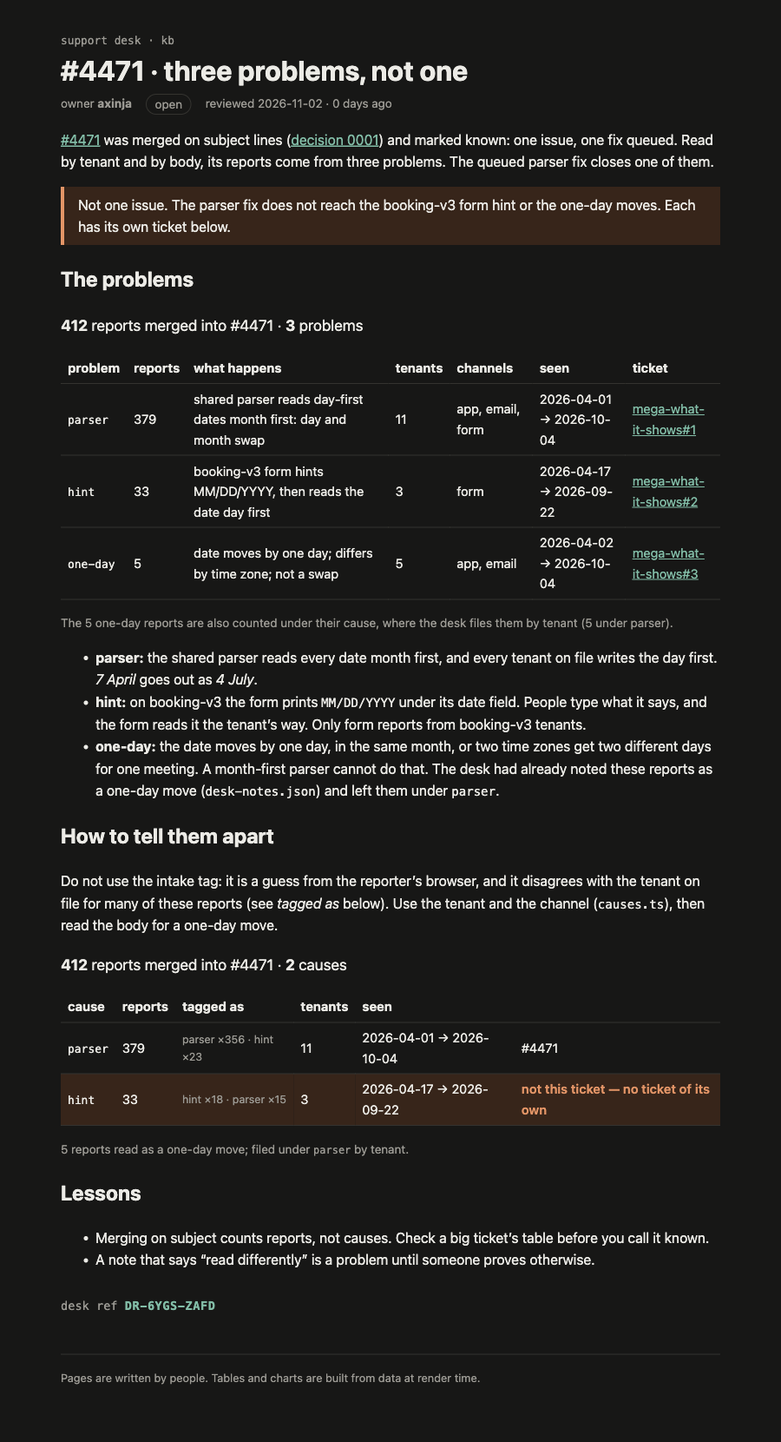
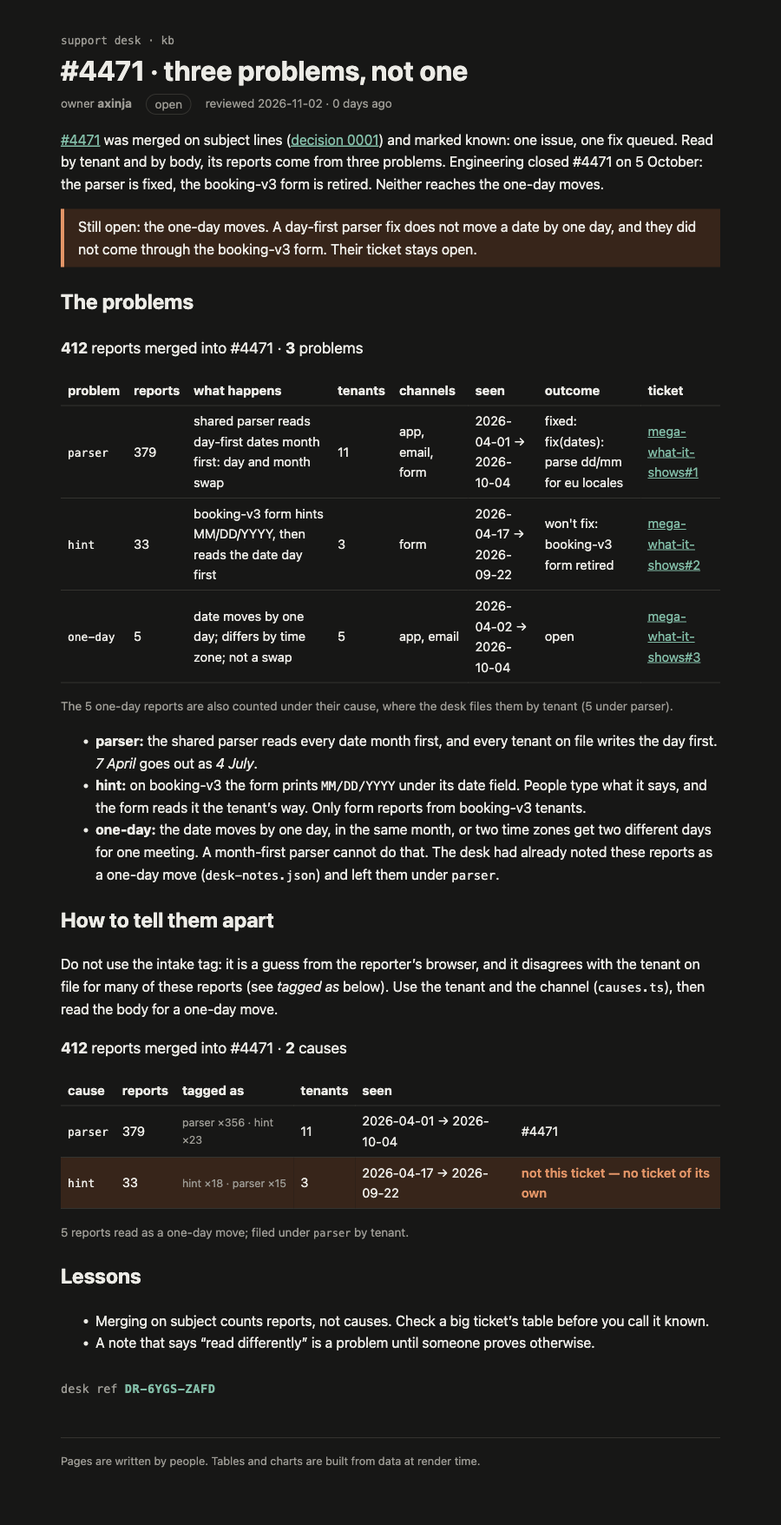
Record #4471 outcomes: parser fixed, hint won't fix, one-day open

diff --git a/page/kb/incidents/4471/problems.html b/page/kb/incidents/4471/problems.html
@@ -9,11 +9,11 @@
 		<link href="../../../_app/immutable/chunks/CptVIHXj.js" rel="modulepreload">
 		<link href="../../../_app/immutable/chunks/CHfFqfNT.js" rel="modulepreload">
 		<link href="../../../_app/immutable/chunks/DQG8lHS1.js" rel="modulepreload">
-		<link href="../../../_app/immutable/entry/app.CKmIegJP.js" rel="modulepreload">
+		<link href="../../../_app/immutable/entry/app.RtNHlXti.js" rel="modulepreload">
 		<link href="../../../_app/immutable/nodes/0.Izv2btRW.js" rel="modulepreload">
 		<link href="../../../_app/immutable/chunks/DK3Fl9T5.js" rel="modulepreload">
-		<link href="../../../_app/immutable/nodes/5.FRS2nURJ.js" rel="modulepreload">
-		<link href="../../../_app/immutable/chunks/BEaBLujZ.js" rel="modulepreload">
+		<link href="../../../_app/immutable/nodes/5.deZKQx3Y.js" rel="modulepreload">
+		<link href="../../../_app/immutable/chunks/B2IXKG7t.js" rel="modulepreload">
 		<link href="../../../_app/immutable/chunks/DkoUumqI.js" rel="modulepreload">
 		<link href="../../../_app/immutable/chunks/gCVyuZ4b.js" rel="modulepreload">
 		<link href="../../../_app/immutable/chunks/DcZ9TEUN.js" rel="modulepreload">
@@ -34,8 +34,9 @@ aside.svelte-17bri61{border-left:4px solid var(--accent);background:var(--note-b
   <body>
     <div style="display: contents"><!--[--><!--[--><!--[0--><!--[--><!--[--><!--[-1--><!--[--><div class="kb svelte-e2jw2j"><header><a class="crumb svelte-e2jw2j" href="/kb">support desk · kb</a> <h1 class="svelte-e2jw2j">#4471 · three problems, not one</h1> <p class="meta svelte-e2jw2j"><span>owner <b>axinja</b></span> <span class="status open svelte-e2jw2j">open</span> <span class="svelte-e2jw2j">reviewed 2026-11-02 · 0 days ago</span></p></header> <!--[-1--><!--]--> <main><p><a href="/kb/incidents/4471">#4471</a> was merged on subject lines (<a href="/kb/decisions/0001-dedupe-by-subject">decision 0001</a>)
 and marked known: one issue, one fix queued. Read by tenant and by body, its reports come from
-three problems. The queued parser fix closes one of them.</p> <aside class="warn svelte-17bri61"><!---->Not one issue. The parser fix does not reach the booking-v3 form hint or the one-day moves.
-Each has its own ticket below.<!----></aside><!----> <h2>The problems</h2> <p class="sum svelte-1op6c6"><strong>412</strong> reports merged into #4471 · <strong>3</strong> problems</p> <table><thead><tr><th>problem</th><th>reports</th><th>what happens</th><th>tenants</th><th>channels</th><th>seen</th><th>ticket</th></tr></thead><tbody><!--[--><tr><td><code>parser</code></td><td>379</td><td>shared parser reads day-first dates month first: day and month swap</td><td>11</td><td>app, email, form</td><td>2026-04-01 → 2026-10-04</td><td><!--[0--><a href="https://github.com/axinja/mega-what-it-shows/issues/1">mega-what-it-shows#1</a><!--]--></td></tr><tr><td><code>hint</code></td><td>33</td><td>booking-v3 form hints MM/DD/YYYY, then reads the date day first</td><td>3</td><td>form</td><td>2026-04-17 → 2026-09-22</td><td><!--[0--><a href="https://github.com/axinja/mega-what-it-shows/issues/2">mega-what-it-shows#2</a><!--]--></td></tr><tr><td><code>one-day</code></td><td>5</td><td>date moves by one day; differs by time zone; not a swap</td><td>5</td><td>app, email</td><td>2026-04-02 → 2026-10-04</td><td><!--[0--><a href="https://github.com/axinja/mega-what-it-shows/issues/3">mega-what-it-shows#3</a><!--]--></td></tr><!--]--></tbody></table> <!--[0--><p class="note svelte-1op6c6">The 5 one-day reports are also counted under their cause, where the desk files them by tenant (5 under parser).</p><!--]--><!----> <ul><li><strong>parser:</strong> the shared parser reads every date month first, and every tenant on file writes the
+three problems. Engineering closed #4471 on 5 October: the parser is fixed, the booking-v3 form
+is retired. Neither reaches the one-day moves.</p> <aside class="warn svelte-17bri61"><!---->Still open: the one-day moves. A day-first parser fix does not move a date by one day, and they
+did not come through the booking-v3 form. Their ticket stays open.<!----></aside><!----> <h2>The problems</h2> <p class="sum svelte-1op6c6"><strong>412</strong> reports merged into #4471 · <strong>3</strong> problems</p> <table><thead><tr><th>problem</th><th>reports</th><th>what happens</th><th>tenants</th><th>channels</th><th>seen</th><th>outcome</th><th>ticket</th></tr></thead><tbody><!--[--><tr><td><code>parser</code></td><td>379</td><td>shared parser reads day-first dates month first: day and month swap</td><td>11</td><td>app, email, form</td><td>2026-04-01 → 2026-10-04</td><td>fixed: fix(dates): parse dd/mm for eu locales</td><td><!--[0--><a href="https://github.com/axinja/mega-what-it-shows/issues/1">mega-what-it-shows#1</a><!--]--></td></tr><tr><td><code>hint</code></td><td>33</td><td>booking-v3 form hints MM/DD/YYYY, then reads the date day first</td><td>3</td><td>form</td><td>2026-04-17 → 2026-09-22</td><td>won't fix: booking-v3 form retired</td><td><!--[0--><a href="https://github.com/axinja/mega-what-it-shows/issues/2">mega-what-it-shows#2</a><!--]--></td></tr><tr><td><code>one-day</code></td><td>5</td><td>date moves by one day; differs by time zone; not a swap</td><td>5</td><td>app, email</td><td>2026-04-02 → 2026-10-04</td><td>open</td><td><!--[0--><a href="https://github.com/axinja/mega-what-it-shows/issues/3">mega-what-it-shows#3</a><!--]--></td></tr><!--]--></tbody></table> <!--[0--><p class="note svelte-1op6c6">The 5 one-day reports are also counted under their cause, where the desk files them by tenant (5 under parser).</p><!--]--><!----> <ul><li><strong>parser:</strong> the shared parser reads every date month first, and every tenant on file writes the
 day first. <em>7 April</em> goes out as <em>4 July</em>.</li> <li><strong>hint:</strong> on booking-v3 the form prints <code>MM/DD/YYYY</code> under its date field. People type what it
 says, and the form reads it the tenant’s way. Only form reports from booking-v3 tenants.</li> <li><strong>one-day:</strong> the date moves by one day, in the same month, or two time zones get two different
 days for one meeting. A month-first parser cannot do that. The desk had already noted these
@@ -45,16 +46,16 @@ tenant on file for many of these reports (see <em>tagged as</em> below). Use the
 			
 			<script>
 				{
-					__sveltekit_1hvi8yl = {
+					__sveltekit_jiuhll = {
 						base: new URL("../../..", location).pathname.slice(0, -1),
-						version: "1793637715995"
+						version: "1793638038754"
 					};
 
 					const element = document.currentScript.parentElement;
 
 					import("../../../_app/immutable/entry/start.D1HzdfF7.js").then(async (kit) => {
-						kit.init(__sveltekit_1hvi8yl);
-						const app = await import("../../../_app/immutable/entry/app.CKmIegJP.js");
+						kit.init(__sveltekit_jiuhll);
+						const app = await import("../../../_app/immutable/entry/app.RtNHlXti.js");
 						kit.start(app, element, {
 							node_ids: [0, 5],
 							data: [null,null],

diff --git a/page/_app/immutable/chunks/B2IXKG7t.js b/page/_app/immutable/chunks/B2IXKG7t.js
@@ -1,0 +1,11 @@
+import{t as e}from"./DK3Fl9T5.js";import{E as t,F as n,H as r,I as i,K as a,L as o,N as s,O as c,R as l,S as u,T as d,U as f,W as p,_ as m,c as h,h as g,k as _,n as v,q as y,r as b,t as x,w as S}from"./CHfFqfNT.js";import{t as C}from"./DkoUumqI.js";import{n as w,r as T,t as E}from"./gCVyuZ4b.js";import{a as D,l as O,r as k,t as A}from"./DcZ9TEUN.js";var j=t(`<a> </a>`),M=t(`<tr><td><code> </code></td><td> </td><td> </td><td> </td><td> </td><td> </td><td> </td><td><!></td></tr>`),N=t(`<p class="note svelte-1op6c6"> </p>`),P=t(`<p class="sum svelte-1op6c6"><strong> </strong> <strong> </strong> problems</p> <table><thead><tr><th>problem</th><th>reports</th><th>what happens</th><th>tenants</th><th>channels</th><th>seen</th><th>outcome</th><th>ticket</th></tr></thead><tbody></tbody></table> <!>`,1);function F(e,t){p(t,!0);let d=v(t,`issues`,19,()=>({})),b=v(t,`outcomes`,19,()=>({})),x={parser:`shared parser reads day-first dates month first: day and month swap`,hint:`booking-v3 form hints MM/DD/YYYY, then reads the date day first`,"one-day":`date moves by one day; differs by time zone; not a swap`,unplaced:`tenant not on file`},C=r(()=>O(T).filter(e=>e.mergedInto===t.ticket)),E=r(()=>_(C).filter(e=>w.oneDayMove.includes(e.id))),A=r(()=>[...D(_(C),k).map(e=>({problem:e.cause,reports:e.reports})),{problem:`one-day`,reports:_(E)}].filter(e=>e.reports.length).map(e=>{let t=e.reports.map(e=>e.receivedAt.slice(0,10)).sort();return{...e,tenants:new Set(e.reports.map(e=>e.tenant)).size,channels:[...new Set(e.reports.map(e=>e.channel))].sort().join(`, `),seen:`${t[0]} → ${t[t.length-1]}`}}).sort((e,t)=>t.reports.length-e.reports.length)),F=r(()=>D(_(E),k).map(e=>`${e.reports.length} under ${e.cause}`).join(`, `));var I=P(),L=i(I),R=n(L),z=o(R,!0),B=l(R),V=l(B),H=o(V,!0);a(),y(L);var U=l(L,2),W=l(n(U));g(W,21,()=>_(A),e=>e.problem,(e,t)=>{var r=M(),i=n(r),a=n(i),f=o(a,!0);y(i);var p=l(i),g=o(p,!0),v=l(p),C=o(v,!0),w=l(v),T=o(w,!0),E=l(w),D=o(E,!0),O=l(E),k=o(O,!0),A=l(O),N=o(A,!0),P=l(A),F=n(P),I=e=>{var n=j(),r=o(n,!0);s(e=>{h(n,`href`,d()[_(t).problem]),u(r,e)},[()=>d()[_(t).problem].split(`/`).slice(-3).join(` `).replace(` issues `,`#`)]),S(e,n)},L=e=>{var t=c(`none yet`);S(e,t)};m(F,e=>{d()[_(t).problem]?e(I):e(L,-1)}),y(P),y(r),s(()=>{u(f,_(t).problem),u(g,_(t).reports.length),u(C,x[_(t).problem]),u(T,_(t).tenants),u(D,_(t).channels),u(k,_(t).seen),u(N,b()[_(t).problem]??`open`)}),S(e,r)}),y(W),y(U);var G=l(U,2),K=e=>{var t=N(),n=o(t);s(()=>u(n,`The ${_(E).length??``} one-day reports are also counted under their cause, where the desk files them by tenant (${_(F)??``}).`)),S(e,t)};m(G,e=>{_(E).length&&e(K)}),s(()=>{u(z,_(C).length),u(B,` reports merged into #${t.ticket??``} · `),u(H,_(A).length)}),S(e,I),f()}var I=`0123456789ABCDEFGHJKMNPQRSTVWXYZ`;function L(e,t){let n=t>>>0;for(let t=0;t<e.length;t++)n^=e.charCodeAt(t),n=Math.imul(n,16777619)>>>0;return n}function R(e){let t=e.trim(),n=L(t,2166136261),r=L(t,2654435769),i=BigInt(n)<<8n|BigInt(r&255),a=``;for(let e=0;e<8;e++)a=I[Number(i&31n)]+a,i>>=5n;return`DR-${a.slice(0,4)}-${a.slice(4)}`}var z=t(`<p class="stamp svelte-1280m42">desk ref <b class="svelte-1280m42"> </b></p>`),B=t(`<p class="stamp missing svelte-1280m42">no desk ref: this page isn't signed (no <code>signature</code> in its frontmatter)</p>`);function V(e,t){p(t,!0);let a=r(()=>t.signature?R(t.signature):null);var c=d(),h=i(c),g=e=>{var t=z(),r=l(n(t)),i=o(r,!0);y(t),s(()=>u(i,_(a))),S(e,t)},v=e=>{var t=B();S(e,t)};m(h,e=>{_(a)?e(g):e(v,-1)}),S(e,c),f()}var H=e({default:()=>Z,metadata:()=>U}),U={layout:`runbook`,title:`#4471 · three problems, not one`,owner:`axinja`,status:`open`,reviewed:`2026-11-02T00:00:00.000Z`,signature:`v1.eyJzdWIiOiI0MDkxIiwiYXVkIjoiY2hhbGxlbmdlOndoYXQtaXQtc2hvd3MiLCJpYXQiOjE3OTM2Mzc1NjQsImV4cCI6MTc5MzcyMzk2NH0.ZXxqN_J4QMW--361Em3z11RvPt71UgM0ZwffZvI_yM0`},{layout:W,title:G,owner:K,status:q,reviewed:J,signature:Y}=U,X=t(`<p><a href="/kb/incidents/4471">#4471</a> was merged on subject lines (<a href="/kb/decisions/0001-dedupe-by-subject">decision 0001</a>)
+and marked known: one issue, one fix queued. Read by tenant and by body, its reports come from
+three problems. Engineering closed #4471 on 5 October: the parser is fixed, the booking-v3 form
+is retired. Neither reaches the one-day moves.</p> <!> <h2>The problems</h2> <!> <ul><li><strong>parser:</strong> the shared parser reads every date month first, and every tenant on file writes the
+day first. <em>7 April</em> goes out as <em>4 July</em>.</li> <li><strong>hint:</strong> on booking-v3 the form prints <code>MM/DD/YYYY</code> under its date field. People type what it
+says, and the form reads it the tenant’s way. Only form reports from booking-v3 tenants.</li> <li><strong>one-day:</strong> the date moves by one day, in the same month, or two time zones get two different
+days for one meeting. A month-first parser cannot do that. The desk had already noted these
+reports as a one-day move (<code>desk-notes.json</code>) and left them under <code>parser</code>.</li></ul> <h2>How to tell them apart</h2> <p>Do not use the intake tag: it is a guess from the reporter’s browser, and it disagrees with the
+tenant on file for many of these reports (see <em>tagged as</em> below). Use the tenant and the channel
+(<code>causes.ts</code>), then read the body for a one-day move.</p> <!> <h2>Lessons</h2> <ul><li>Merging on subject counts reports, not causes. Check a big ticket’s table before you call it known.</li> <li>A note that says “read differently” is a problem until someone proves otherwise.</li></ul> <!>`,1);function Z(e,t){let n=x(t,[`children`,`$$slots`,`$$events`,`$$legacy`]);C(e,b(()=>n,()=>U,{children:(e,t)=>{var n=X(),r=l(i(n),2);A(r,{kind:`warn`,children:(e,t)=>{a();var n=c(`Still open: the one-day moves. A day-first parser fix does not move a date by one day, and they
+did not come through the booking-v3 form. Their ticket stays open.`);S(e,n)},$$slots:{default:!0}});var o=l(r,4);F(o,{ticket:4471,issues:{parser:`https://github.com/axinja/mega-what-it-shows/issues/1`,hint:`https://github.com/axinja/mega-what-it-shows/issues/2`,"one-day":`https://github.com/axinja/mega-what-it-shows/issues/3`},outcomes:{parser:`fixed: fix(dates): parse dd/mm for eu locales`,hint:`won't fix: booking-v3 form retired`}});var s=l(o,8);E(s,{ticket:4471}),V(l(s,6),{get signature(){return Y}}),S(e,n)},$$slots:{default:!0}}))}export{Z as n,H as t};

diff --git a/page/kb.html b/page/kb.html
@@ -9,16 +9,16 @@
 		<link href="./_app/immutable/chunks/CptVIHXj.js" rel="modulepreload">
 		<link href="./_app/immutable/chunks/CHfFqfNT.js" rel="modulepreload">
 		<link href="./_app/immutable/chunks/DQG8lHS1.js" rel="modulepreload">
-		<link href="./_app/immutable/entry/app.CKmIegJP.js" rel="modulepreload">
+		<link href="./_app/immutable/entry/app.RtNHlXti.js" rel="modulepreload">
 		<link href="./_app/immutable/nodes/0.Izv2btRW.js" rel="modulepreload">
 		<link href="./_app/immutable/chunks/DK3Fl9T5.js" rel="modulepreload">
-		<link href="./_app/immutable/nodes/2.GHr2Ji6K.js" rel="modulepreload">
+		<link href="./_app/immutable/nodes/2.CJDROEr_.js" rel="modulepreload">
 		<link href="./_app/immutable/chunks/DkoUumqI.js" rel="modulepreload">
 		<link href="./_app/immutable/chunks/DCOWSXCS.js" rel="modulepreload">
 		<link href="./_app/immutable/chunks/BaKnMkZM.js" rel="modulepreload">
 		<link href="./_app/immutable/chunks/gCVyuZ4b.js" rel="modulepreload">
 		<link href="./_app/immutable/chunks/DcZ9TEUN.js" rel="modulepreload">
-		<link href="./_app/immutable/chunks/BEaBLujZ.js" rel="modulepreload">
+		<link href="./_app/immutable/chunks/B2IXKG7t.js" rel="modulepreload">
 		<link href="./_app/immutable/chunks/Ce0JHbCm.js" rel="modulepreload">
 		<!--e2jw2j--><!----><title>Support knowledge base · support kb</title>
 		<style>:root{--bg:#fbfaf7;--fg:#1d1d1b;--muted:#6b6a66;--line:#e3e0d8;--accent:#2f6f5e;--warn:#b4501f;--warn-bg:#fbeee6;--note-bg:#eef5f2;--mono:ui-monospace, "Cascadia Code", Menlo, monospace}@media (prefers-color-scheme:dark){:root{--bg:#171716;--fg:#ecebe6;--muted:#9c9a93;--line:#34332f;--accent:#6fbfa6;--warn:#f0905d;--warn-bg:#3a2418;--note-bg:#1d2c27}}body{background:var(--bg);color:var(--fg);margin:0;font:16px/1.6 system-ui,sans-serif}.kb table{border-collapse:collapse;width:100%;margin:1rem 0;font-size:.92rem}.kb th,.kb td{border-bottom:1px solid var(--line);text-align:left;padding:.35rem .5rem}.kb code{font-family:var(--mono);font-size:.88em}.kb a{color:var(--accent)}.kb.svelte-e2jw2j{max-width:760px;margin:0 auto;padding:2rem 16px 4rem}.crumb.svelte-e2jw2j{font:.8rem var(--mono);color:var(--muted);text-decoration:none}h1.svelte-e2jw2j{margin:.25rem 0 .5rem;line-height:1.2}.meta.svelte-e2jw2j{color:var(--muted);flex-wrap:wrap;gap:.5rem 1rem;margin:0;font-size:.85rem;display:flex}.status.svelte-e2jw2j{border:1px solid var(--line);border-radius:99px;padding:0 .6rem}.stale.svelte-e2jw2j{color:var(--warn);font-weight:600}.banner.svelte-e2jw2j{background:var(--warn-bg);color:var(--warn);border-radius:6px;padding:.6rem 1rem}footer.svelte-e2jw2j{color:var(--muted);border-top:1px solid var(--line);margin-top:3rem;padding-top:1rem;font-size:.8rem}
@@ -49,16 +49,16 @@ computed by a component, not typed into a paragraph.</p><!----></main> <footer c
 			
 			<script>
 				{
-					__sveltekit_1hvi8yl = {
+					__sveltekit_jiuhll = {
 						base: new URL(".", location).pathname.slice(0, -1),
-						version: "1793637715995"
+						version: "1793638038754"
 					};
 
 					const element = document.currentScript.parentElement;
 
 					import("./_app/immutable/entry/start.D1HzdfF7.js").then(async (kit) => {
-						kit.init(__sveltekit_1hvi8yl);
-						const app = await import("./_app/immutable/entry/app.CKmIegJP.js");
+						kit.init(__sveltekit_jiuhll);
+						const app = await import("./_app/immutable/entry/app.RtNHlXti.js");
 						kit.start(app, element, {
 							node_ids: [0, 2],
 							data: [null,null],

diff --git a/page/_app/immutable/nodes/2.CJDROEr_.js b/page/_app/immutable/nodes/2.CJDROEr_.js
@@ -1,0 +1,2 @@
+import{E as e,F as t,I as n,K as r,L as i,N as a,R as o,S as s,U as c,W as l,c as u,d,h as f,i as p,k as m,q as h,r as g,t as _,w as v}from"../chunks/CHfFqfNT.js";import{n as y,r as b,t as x}from"../chunks/DkoUumqI.js";import{t as S}from"../chunks/DCOWSXCS.js";import{t as C}from"../chunks/BaKnMkZM.js";import{t as w}from"../chunks/B2IXKG7t.js";import{t as T}from"../chunks/Ce0JHbCm.js";var E=e(`<tr><td><a> </a></td><td> </td><td> </td><td> </td></tr>`),D=e(`<table><thead><tr><th>page</th><th>owner</th><th>status</th><th>reviewed</th></tr></thead><tbody></tbody></table>`);function O(e,n){l(n,!1);let r=Object.entries(Object.assign({"/src/routes/kb/decisions/0001-dedupe-by-subject/+page.svx":S,"/src/routes/kb/incidents/4471/+page.svx":C,"/src/routes/kb/incidents/4471/problems/+page.svx":w,"/src/routes/kb/triage/dedupe/+page.svx":T})).map(([e,t])=>({href:e.replace(`/src/routes`,``).replace(`/+page.svx`,``),...t.metadata})).sort((e,t)=>e.href.localeCompare(t.href));p();var g=D(),_=o(t(g));f(_,5,()=>r,e=>e.href,(e,n)=>{var r=E(),c=t(r),l=t(c),f=i(l,!0);h(c);var p=o(c),g=i(p,!0),_=o(p),x=i(_,!0),S=o(_);let C;var w=i(S,!0);h(r),a((e,t)=>{u(l,`href`,m(n).href),s(f,m(n).title),s(g,m(n).owner),s(x,m(n).status),C=d(S,1,`svelte-tbc1ha`,null,C,{stale:e}),s(w,t)},[()=>y(m(n).reviewed)>180,()=>b(m(n).reviewed)]),v(e,r)}),h(_),h(g),v(e,g),c()}var k={layout:`runbook`,title:`Support knowledge base`,owner:`support desk`,status:`living`,reviewed:`2026-09-28T00:00:00.000Z`},{layout:A,title:j,owner:M,status:N,reviewed:P}=k,F=e(`<p>What the support desk knows, kept next to the code that knows it. One desk, every product: <code>sched-prod</code> (calendar invites for about 300k people) and the rest. When something breaks, the reports land here first.</p> <p>Start with <a href="/kb/triage/dedupe">triage</a> if you are new on the desk.</p> <h2>Pages</h2> <!> <h2>Writing a page</h2> <p>Keep the words here and the logic in <code>src/lib</code>. A number that can be computed should be
+computed by a component, not typed into a paragraph.</p>`,1);function I(e,t){let i=_(t,[`children`,`$$slots`,`$$events`,`$$legacy`]);x(e,g(()=>i,()=>k,{children:(e,t)=>{var i=F();O(o(n(i),6),{}),r(4),v(e,i)},$$slots:{default:!0}}))}export{I as component};

diff --git a/page/_app/immutable/entry/app.RtNHlXti.js b/page/_app/immutable/entry/app.RtNHlXti.js
@@ -1,0 +1,2 @@
+const __vite__mapDeps=(i,m=__vite__mapDeps,d=(m.f||(m.f=["../nodes/0.Izv2btRW.js","../chunks/DK3Fl9T5.js","../chunks/CHfFqfNT.js","../nodes/1.xQrPtl8H.js","../chunks/DQG8lHS1.js","./payload.DSmR2FwN.js","../nodes/2.CJDROEr_.js","../chunks/DkoUumqI.js","../assets/runbook.COyw0cbZ.css","../chunks/DCOWSXCS.js","../chunks/BaKnMkZM.js","../chunks/gCVyuZ4b.js","../chunks/DcZ9TEUN.js","../assets/Callout.AbLv9dM_.css","../assets/CauseTable.DuKfINX_.css","../assets/_page.BwRNheVv.css","../chunks/B2IXKG7t.js","../assets/_page.l10rmzXo.css","../chunks/Ce0JHbCm.js","../assets/_page.DO6Yid7X.css","../assets/2.Bt0MwIZg.css","../nodes/3.utlB90Ku.js","../nodes/4.BCZ31ns2.js","../nodes/5.deZKQx3Y.js","../nodes/6.BZRQ87Zk.js"])))=>i.map(i=>d[i]);
+import{t as e}from"../chunks/CRzLMJPS.js";var t={},n=[()=>e(()=>import(`../nodes/0.Izv2btRW.js`),__vite__mapDeps([0,1,2]),import.meta.url),()=>e(()=>import(`../nodes/1.xQrPtl8H.js`),__vite__mapDeps([3,2,4,5]),import.meta.url),()=>e(()=>import(`../nodes/2.CJDROEr_.js`),__vite__mapDeps([6,2,7,8,9,1,10,11,12,13,14,15,16,17,18,19,20]),import.meta.url),()=>e(()=>import(`../nodes/3.utlB90Ku.js`),__vite__mapDeps([21,9,1,2,7,8]),import.meta.url),()=>e(()=>import(`../nodes/4.BCZ31ns2.js`),__vite__mapDeps([22,10,1,2,7,8,11,12,13,14,15]),import.meta.url),()=>e(()=>import(`../nodes/5.deZKQx3Y.js`),__vite__mapDeps([23,16,1,2,7,8,11,12,13,14,17]),import.meta.url),()=>e(()=>import(`../nodes/6.BZRQ87Zk.js`),__vite__mapDeps([24,18,1,2,7,8,12,13,19]),import.meta.url)],r=[],i={"/kb":[2],"/kb/decisions/0001-dedupe-by-subject":[3],"/kb/incidents/4471":[4],"/kb/incidents/4471/problems":[5],"/kb/triage/dedupe":[6]},a={handleError:(({kind:e,error:t})=>{e===`unknown`&&console.error(t)}),reroute:(()=>{}),transport:{}},o=Object.fromEntries(Object.entries(a.transport).map(([e,t])=>[e,t.decode])),s=Object.fromEntries(Object.entries(a.transport).map(([e,t])=>[e,t.encode])),c=!1,l=(e,t)=>o[e](t),u=()=>e(()=>import(`../chunks/Bjy-W4x2.js`).then(e=>e.default),[],import.meta.url);export{l as decode,o as decoders,i as dictionary,s as encoders,u as get_error_template,c as hash,a as hooks,t as matchers,n as nodes,r as server_loads};

diff --git a/kb/src/lib/kb/ProblemTable.svelte b/kb/src/lib/kb/ProblemTable.svelte
@@ -4,8 +4,9 @@
   import { groupByCause, uniqueById, type Report } from '#lib/kb/causes';
   import { tenantOf } from '#lib/kb/locales';
 
-  // One row per problem in a ticket: the causes from causes.ts, with the desk's one-day moves split out.
-  let { ticket, issues = {} }: { ticket: number; issues?: Record<string, string> } = $props();
+  // One row per problem in a ticket: the causes from causes.ts, plus a row for the desk's one-day moves.
+  // `outcomes`: what engineering decided per problem, as the desk reported it.
+  let { ticket, issues = {}, outcomes = {} }: { ticket: number; issues?: Record<string, string>; outcomes?: Record<string, string> } = $props();
 
   const WHAT: Record<string, string> = {
     parser: 'shared parser reads day-first dates month first: day and month swap',
@@ -49,7 +50,7 @@
 </p>
 
 <table>
-  <thead><tr><th>problem</th><th>reports</th><th>what happens</th><th>tenants</th><th>channels</th><th>seen</th><th>ticket</th></tr></thead>
+  <thead><tr><th>problem</th><th>reports</th><th>what happens</th><th>tenants</th><th>channels</th><th>seen</th><th>outcome</th><th>ticket</th></tr></thead>
   <tbody>
     {#each rows as p (p.problem)}
       <tr>
@@ -59,6 +60,7 @@
         <td>{p.tenants}</td>
         <td>{p.channels}</td>
         <td>{p.seen}</td>
+        <td>{outcomes[p.problem] ?? 'open'}</td>
         <td>{#if issues[p.problem]}<a href={issues[p.problem]}>{issues[p.problem].split('/').slice(-3).join(' ').replace(' issues ', '#')}</a>{:else}none yet{/if}</td>
       </tr>
     {/each}

diff --git a/page/kb/decisions/0001-dedupe-by-subject.html b/page/kb/decisions/0001-dedupe-by-subject.html
@@ -9,7 +9,7 @@
 		<link href="../../_app/immutable/chunks/CptVIHXj.js" rel="modulepreload">
 		<link href="../../_app/immutable/chunks/CHfFqfNT.js" rel="modulepreload">
 		<link href="../../_app/immutable/chunks/DQG8lHS1.js" rel="modulepreload">
-		<link href="../../_app/immutable/entry/app.CKmIegJP.js" rel="modulepreload">
+		<link href="../../_app/immutable/entry/app.RtNHlXti.js" rel="modulepreload">
 		<link href="../../_app/immutable/nodes/0.Izv2btRW.js" rel="modulepreload">
 		<link href="../../_app/immutable/chunks/DK3Fl9T5.js" rel="modulepreload">
 		<link href="../../_app/immutable/nodes/3.utlB90Ku.js" rel="modulepreload">
@@ -28,16 +28,16 @@ engineering merges them later.</li></ul><!----></main> <footer class="svelte-e2j
 			
 			<script>
 				{
-					__sveltekit_1hvi8yl = {
+					__sveltekit_jiuhll = {
 						base: new URL("../..", location).pathname.slice(0, -1),
-						version: "1793637715995"
+						version: "1793638038754"
 					};
 
 					const element = document.currentScript.parentElement;
 
 					import("../../_app/immutable/entry/start.D1HzdfF7.js").then(async (kit) => {
-						kit.init(__sveltekit_1hvi8yl);
-						const app = await import("../../_app/immutable/entry/app.CKmIegJP.js");
+						kit.init(__sveltekit_jiuhll);
+						const app = await import("../../_app/immutable/entry/app.RtNHlXti.js");
 						kit.start(app, element, {
 							node_ids: [0, 3],
 							data: [null,null],

diff --git a/page/kb/incidents/4471.html b/page/kb/incidents/4471.html
@@ -9,7 +9,7 @@
 		<link href="../../_app/immutable/chunks/CptVIHXj.js" rel="modulepreload">
 		<link href="../../_app/immutable/chunks/CHfFqfNT.js" rel="modulepreload">
 		<link href="../../_app/immutable/chunks/DQG8lHS1.js" rel="modulepreload">
-		<link href="../../_app/immutable/entry/app.CKmIegJP.js" rel="modulepreload">
+		<link href="../../_app/immutable/entry/app.RtNHlXti.js" rel="modulepreload">
 		<link href="../../_app/immutable/nodes/0.Izv2btRW.js" rel="modulepreload">
 		<link href="../../_app/immutable/chunks/DK3Fl9T5.js" rel="modulepreload">
 		<link href="../../_app/immutable/nodes/4.BCZ31ns2.js" rel="modulepreload">
@@ -38,16 +38,16 @@ first. The fix is queued.</p> <aside class="note svelte-17bri61"><!---->Known. O
 			
 			<script>
 				{
-					__sveltekit_1hvi8yl = {
+					__sveltekit_jiuhll = {
 						base: new URL("../..", location).pathname.slice(0, -1),
-						version: "1793637715995"
+						version: "1793638038754"
 					};
 
 					const element = document.currentScript.parentElement;
 
 					import("../../_app/immutable/entry/start.D1HzdfF7.js").then(async (kit) => {
-						kit.init(__sveltekit_1hvi8yl);
-						const app = await import("../../_app/immutable/entry/app.CKmIegJP.js");
+						kit.init(__sveltekit_jiuhll);
+						const app = await import("../../_app/immutable/entry/app.RtNHlXti.js");
 						kit.start(app, element, {
 							node_ids: [0, 4],
 							data: [null,null],

diff --git a/page/kb/triage/dedupe.html b/page/kb/triage/dedupe.html
@@ -9,7 +9,7 @@
 		<link href="../../_app/immutable/chunks/CptVIHXj.js" rel="modulepreload">
 		<link href="../../_app/immutable/chunks/CHfFqfNT.js" rel="modulepreload">
 		<link href="../../_app/immutable/chunks/DQG8lHS1.js" rel="modulepreload">
-		<link href="../../_app/immutable/entry/app.CKmIegJP.js" rel="modulepreload">
+		<link href="../../_app/immutable/entry/app.RtNHlXti.js" rel="modulepreload">
 		<link href="../../_app/immutable/nodes/0.Izv2btRW.js" rel="modulepreload">
 		<link href="../../_app/immutable/chunks/DK3Fl9T5.js" rel="modulepreload">
 		<link href="../../_app/immutable/nodes/6.BZRQ87Zk.js" rel="modulepreload">
@@ -35,16 +35,16 @@ anything else.<!----></aside><!----> <h2>Try it</h2> <div class="try svelte-gq0h
 			
 			<script>
 				{
-					__sveltekit_1hvi8yl = {
+					__sveltekit_jiuhll = {
 						base: new URL("../..", location).pathname.slice(0, -1),
-						version: "1793637715995"
+						version: "1793638038754"
 					};
 
 					const element = document.currentScript.parentElement;
 
 					import("../../_app/immutable/entry/start.D1HzdfF7.js").then(async (kit) => {
-						kit.init(__sveltekit_1hvi8yl);
-						const app = await import("../../_app/immutable/entry/app.CKmIegJP.js");
+						kit.init(__sveltekit_jiuhll);
+						const app = await import("../../_app/immutable/entry/app.RtNHlXti.js");
 						kit.start(app, element, {
 							node_ids: [0, 6],
 							data: [null,null],

diff --git a/page/_app/immutable/nodes/5.deZKQx3Y.js b/page/_app/immutable/nodes/5.deZKQx3Y.js
@@ -1,0 +1,1 @@
+export{n as component}from"../chunks/B2IXKG7t.js";

diff --git a/README.md b/README.md
@@ -4,11 +4,11 @@ The support desk merged 412 date reports into ticket #4471 and marked it known: 
 queued. Read by tenant, channel and body, the reports come from three problems. Each has its own
 issue here, with how many reports it covers.
 
-| Issue | Problem | Reports |
-|---|---|---|
-| [#1](../../issues/1) | Shared parser reads day-first dates month first | 379 |
-| [#2](../../issues/2) | booking-v3 form hint says MM/DD/YYYY but the form reads day first | 33 |
-| [#3](../../issues/3) | Dates move by one day, differently per time zone | 5 |
+| Issue | Problem | Reports | Outcome |
+|---|---|---|---|
+| [#1](../../issues/1) | Shared parser reads day-first dates month first | 379 | fixed (parse dd/mm for eu locales) |
+| [#2](../../issues/2) | booking-v3 form hint says MM/DD/YYYY but the form reads day first | 33 | won't fix (booking-v3 form retired) |
+| [#3](../../issues/3) | Dates move by one day, differently per time zone | 5 | open |
 
 412 unique reports (the export has 427 rows; 15 are repeats of the same id). Counted as the desk's cause table counts them: the 5 one-day reports are also in the parser count, where the desk files them.
 

diff --git a/issues/close/3.md b/issues/close/3.md
@@ -1,0 +1,1 @@
+Still open. Engineering closed support ticket #4471 on 5 October with two outcomes: the parser fix (`parse dd/mm for eu locales`) and the booking-v3 form retired. Neither covers these 5 reports: a day-first parser fix does not move a date by one day, and none of them came through the booking-v3 form.
